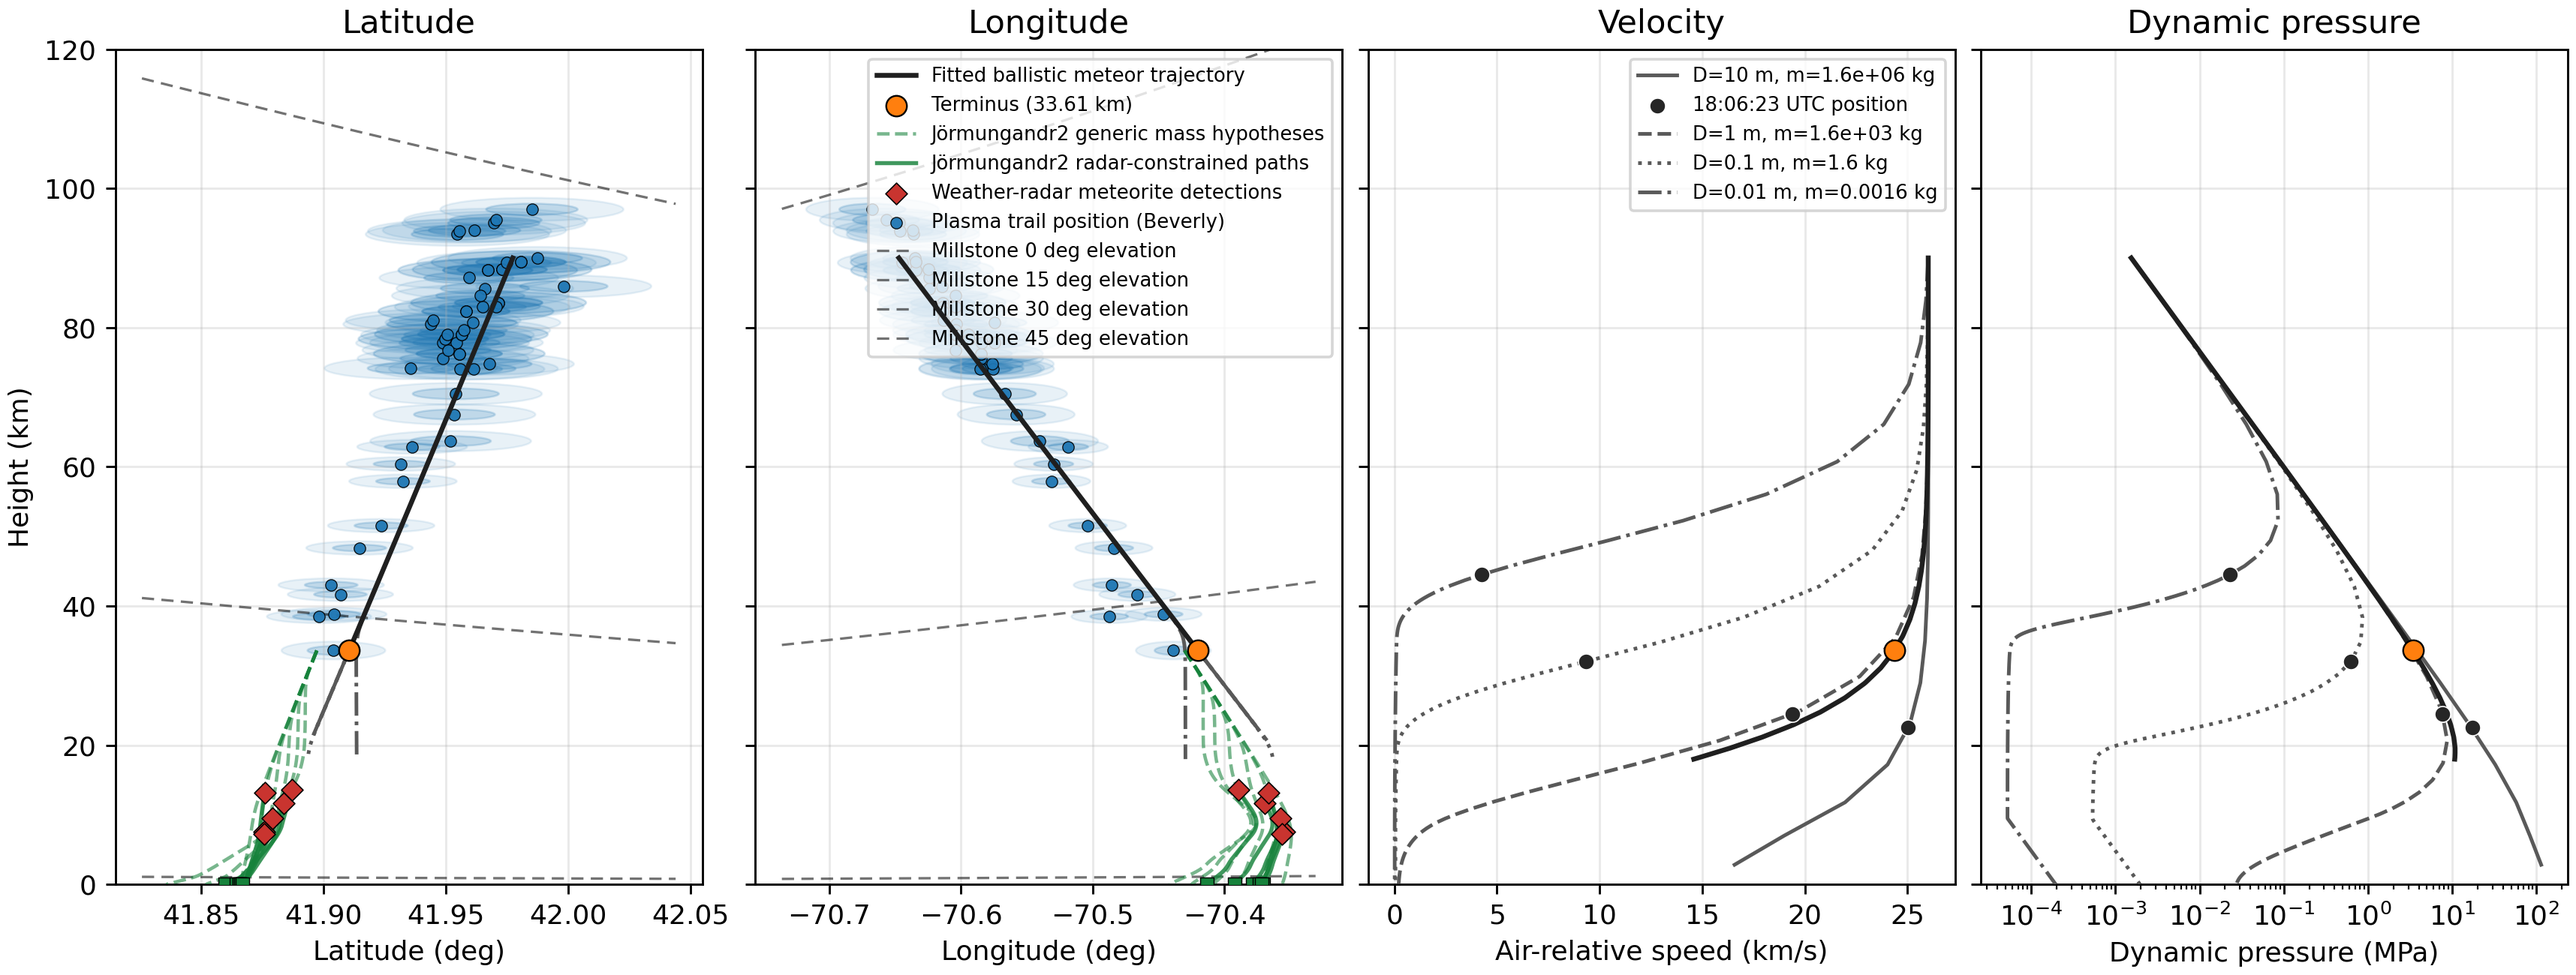
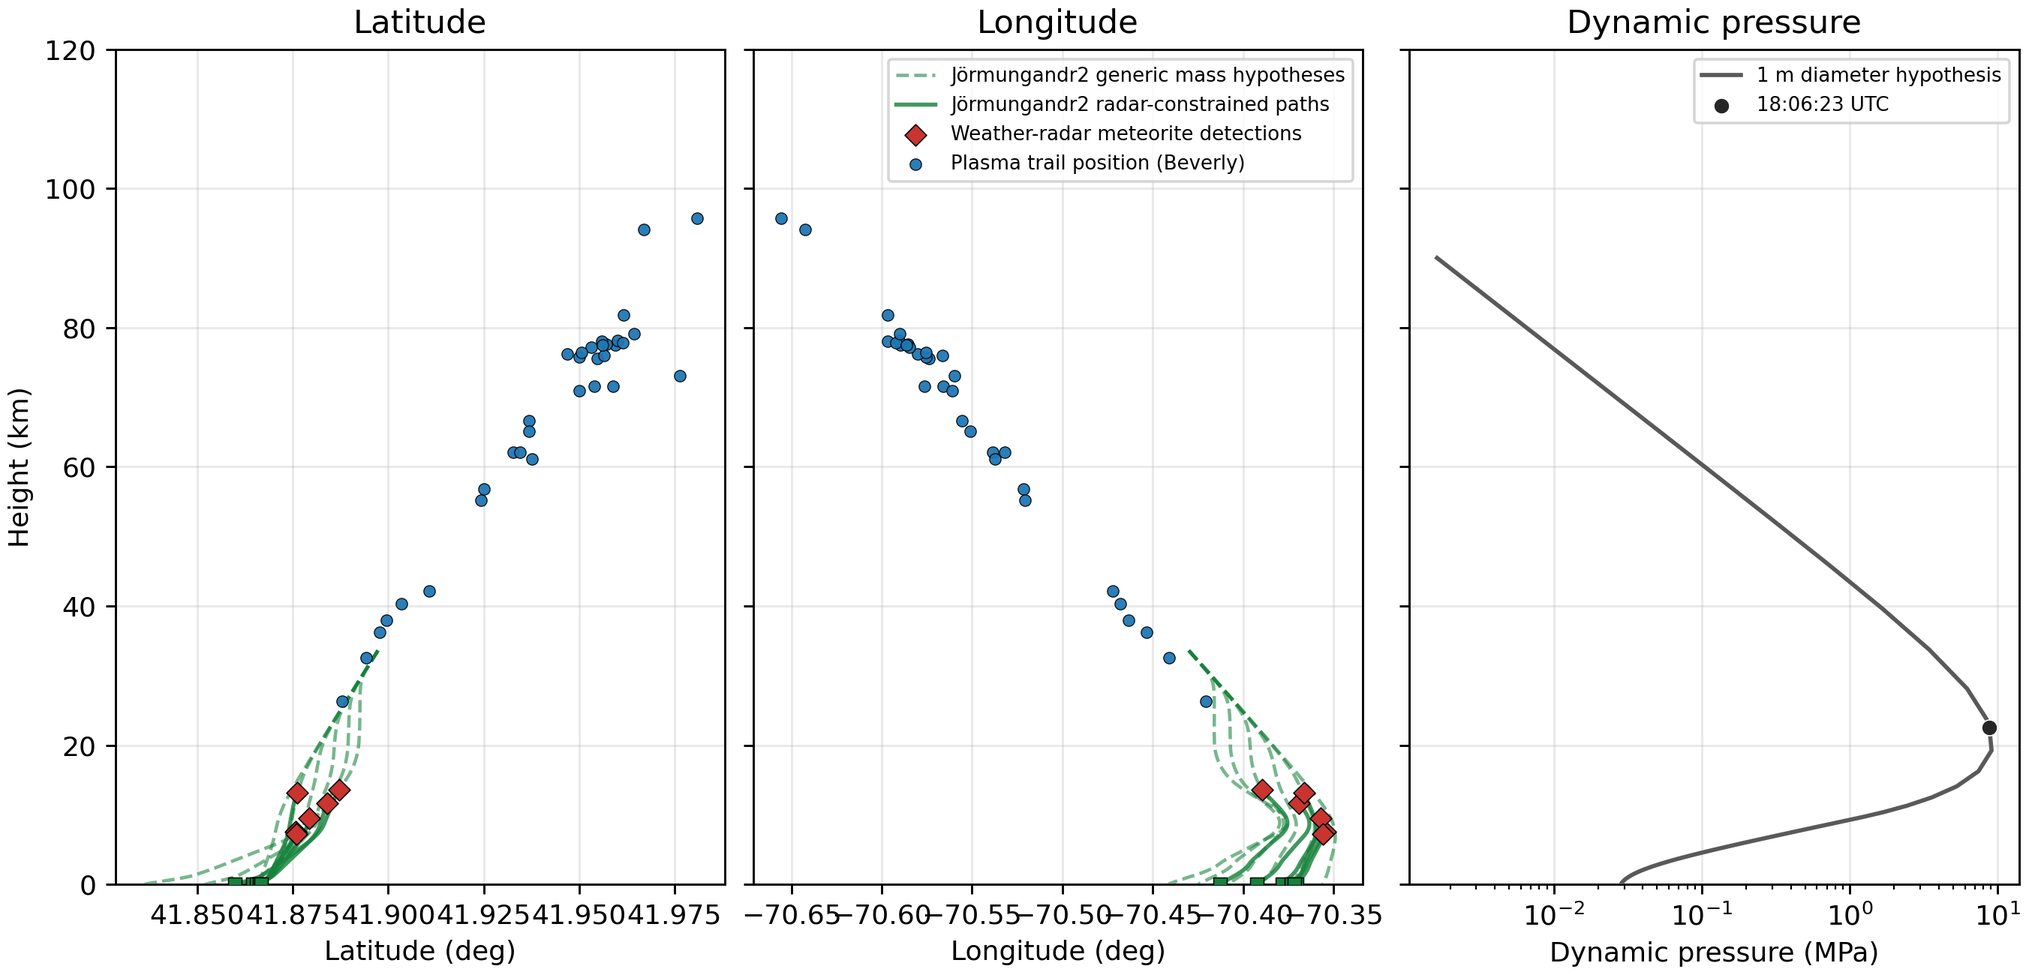
Simplify fragment hypothesis figure panels

diff --git a/reports/plot_fragment_size_hypotheses.py b/reports/plot_fragment_size_hypotheses.py
@@ -29,20 +29,51 @@ from angle_departure_estimator import enu_to_ecef_matrix, geodetic_to_ecef  # no
 from estimate_head_echo_trajectory import ecef_to_geodetic_wgs84  # noqa: E402
 from fit_ballistic_head_trail import atmosphere_velocity_gcrs, build_density_profile, density_at_alt, dynamics, propagate_state, sphere_cd_area_over_mass  # noqa: E402
 from fit_combined_head_trail_eci import gcrs_to_ecef  # noqa: E402
-from reports.image_sparse_spectral_components import fit_model_state_at_altitude, parse_utc, utc_string  # noqa: E402
-
-
 OUT_FIG = Path("reports/figures/fragment_size_hypotheses.png")
 OUT_SUMMARY = Path("reports/fragment_size_hypotheses_summary.json")
 DEFAULT_TRAJECTORY = Path("products/ballistic_head_trail_correlated_fit_v0p2p9_rinterp4_zp16_3incoh/ballistic_head_trail_correlated_fit.json")
-DEFAULT_TRAIL_POSITION_H5 = [
-    Path("reports/interactive_sparse_component_imager/beverly_trail_positions.h5"),
+DEFAULT_TRAIL_POSITION_JSON = [
+    Path("products/specular_trail_positions/specular_trail_position_summary.json"),
 ]
 DEFAULT_DARK_FLIGHT_KMZ = Path("data/marc_fries/cape_cod_bay_dark_flight_20260626.kmz")
 DEFAULT_DARK_FLIGHT_JSON = Path("data/marc_fries/cape_cod_bay_dark_flight_20260625.json")
 MILLSTONE_TX_LAT_DEG = 42.611
 MILLSTONE_TX_LON_DEG = -71.485
 MILLSTONE_TX_ALT_M = 80.0
+
+
+def parse_utc(value: str) -> float:
+    """Parse an ISO-8601 UTC timestamp into Unix seconds."""
+    return datetime.fromisoformat(value.replace("Z", "+00:00")).timestamp()
+
+
+def utc_string(time_unix: float) -> str:
+    """Format Unix seconds as an ISO-8601 UTC timestamp."""
+    return datetime.fromtimestamp(float(time_unix), tz=timezone.utc).isoformat(timespec="microseconds").replace("+00:00", "Z")
+
+
+def fit_model_state_at_altitude(fit: dict, altitude_km: float) -> tuple[float, np.ndarray, np.ndarray]:
+    """Interpolate the saved fitted-model state at a requested altitude."""
+    model = fit["model"]
+    altitude_m = np.asarray(model["alt_m"], dtype=float)
+    target_m = float(altitude_km) * 1000.0
+    if target_m < float(np.nanmin(altitude_m)) or target_m > float(np.nanmax(altitude_m)):
+        raise ValueError(
+            f"Requested altitude {altitude_km:g} km is outside fitted model range "
+            f"{np.nanmin(altitude_m) / 1000.0:.2f}--{np.nanmax(altitude_m) / 1000.0:.2f} km"
+        )
+    order = np.argsort(altitude_m)
+    altitude_sorted = altitude_m[order]
+    time_unix = float(np.interp(target_m, altitude_sorted, np.asarray(model["time_unix"], dtype=float)[order]))
+    position = np.asarray(
+        [np.interp(target_m, altitude_sorted, np.asarray(model["position_gcrs_m"], dtype=float)[order, axis]) for axis in range(3)],
+        dtype=float,
+    )
+    velocity = np.asarray(
+        [np.interp(target_m, altitude_sorted, np.asarray(model["velocity_gcrs_mps"], dtype=float)[order, axis]) for axis in range(3)],
+        dtype=float,
+    )
+    return time_unix, position, velocity
 
 
 def gcrs_path_to_llh(pos_gcrs: np.ndarray, time_unix: np.ndarray) -> np.ndarray:
@@ -203,6 +234,37 @@ def load_components_h5(paths: list[Path], max_height_km: float) -> list[dict]:
                         "blob_axis_length_cross_m": float(h["blob_axis_length_cross_m"][idx]) if "blob_axis_length_cross_m" in h else np.nan,
                     }
                 )
+    return rows
+
+
+def load_components_json(paths: list[Path], max_height_km: float, station: str = "beverly") -> list[dict]:
+    """Load tracked trail-plasma positions from the AoD solution JSON."""
+    rows = []
+    for path in paths:
+        if not path.exists():
+            raise FileNotFoundError(f"Trail-position JSON does not exist: {path}")
+        payload = json.loads(path.read_text(encoding="utf-8"))
+        for row in payload.get("positions", []):
+            alt_m = float(row.get("alt_m", np.nan))
+            alt_km = alt_m / 1000.0
+            if str(row.get("station", "")).lower() != station.lower():
+                continue
+            if not np.isfinite(alt_km) or alt_km < 0.0 or alt_km > max_height_km:
+                continue
+            # Reject the known AoD-alias solution far from the trajectory prior.
+            if float(row.get("aod_prior_offset_deg", 0.0)) > 10.0:
+                continue
+            rows.append(
+                {
+                    "station": str(row.get("station", "")),
+                    "lat_deg": float(row["lat_deg"]),
+                    "lon_deg": float(row["lon_deg"]),
+                    "alt_m": alt_m,
+                    "centroid_alt_sigma_m": np.nan,
+                    "blob_axis_length_along_m": np.nan,
+                    "blob_axis_length_cross_m": np.nan,
+                }
+            )
     return rows
 
 
@@ -457,74 +519,40 @@ def make_plot(
     marker_time_unix: float,
     terminus_marker: dict[str, float],
     trajectory_min_altitude_km: float,
-    fitted_trajectory: dict[str, np.ndarray],
     dark_flight_paths: list[dict],
     dark_flight_detections: list[dict],
 ) -> dict[str, float]:
-    fig, axes = plt.subplots(1, 4, figsize=(13.2, 5.0), sharey=True, constrained_layout=True)
-    ax_lat, ax_lon, ax_vel, ax_q = axes
+    fig, axes = plt.subplots(1, 3, figsize=(10.4, 5.0), sharey=True, constrained_layout=True)
+    ax_lat, ax_lon, ax_q = axes
     linestyles = ["-", "--", ":", "-.", (0, (3, 1, 1, 1, 1, 1))]
 
     marker_label_added = False
     for idx, path in enumerate(paths):
-        label = f"D={path['diameter_m']:g} m, m={path['mass_kg']:.2g} kg"
+        label = f"{path['diameter_m']:g} m diameter hypothesis"
         style = linestyles[idx % len(linestyles)]
-        mapped = np.asarray(path["alt_km"], dtype=float) >= float(trajectory_min_altitude_km)
-        ax_lat.plot(np.asarray(path["lat_deg"])[mapped], np.asarray(path["alt_km"])[mapped], color="0.35", lw=1.35, linestyle=style, zorder=4)
-        ax_lon.plot(np.asarray(path["lon_deg"])[mapped], np.asarray(path["alt_km"])[mapped], color="0.35", lw=1.35, linestyle=style, zorder=4)
         q = np.asarray(path["dynamic_pressure_mpa"], dtype=float)
         q_plot = np.where(q > 0.0, q, np.nan)
-        ax_vel.plot(path["air_relative_speed_km_s"], path["alt_km"], color="0.35", lw=1.35, linestyle=style, label=label, zorder=4)
-        ax_q.plot(q_plot, path["alt_km"], color="0.35", lw=1.35, linestyle=style, zorder=4)
-        marker = interp_path_at_time(path, marker_time_unix)
+        show_dynamic_pressure = np.isclose(float(path["diameter_m"]), 1.0)
+        if show_dynamic_pressure:
+            ax_q.plot(q_plot, path["alt_km"], color="0.35", lw=1.55, linestyle=style, label=label, zorder=4)
+        marker = interp_path_at_time(path, marker_time_unix) if show_dynamic_pressure else None
         if marker is not None:
             marker_label = None
             if not marker_label_added:
-                marker_label = "18:06:23 UTC position"
+                marker_label = "18:06:23 UTC"
                 marker_label_added = True
-            ax_vel.scatter(
-                [marker["air_relative_speed_km_s"]],
-                [marker["alt_km"]],
-                marker="o",
-                s=34,
-                color="0.15",
-                edgecolor="white",
-                linewidth=0.45,
-                label=marker_label,
-                zorder=7,
-            )
             if marker["dynamic_pressure_mpa"] > 0.0:
-                ax_q.scatter([marker["dynamic_pressure_mpa"]], [marker["alt_km"]], marker="o", s=34, color="0.15", edgecolor="white", linewidth=0.45, zorder=7)
-
-    above_terminus = fitted_trajectory["alt_km"] >= float(terminus_marker["alt_km"])
-    ax_lat.plot(fitted_trajectory["lat_deg"][above_terminus], fitted_trajectory["alt_km"][above_terminus], color="0.12", lw=1.8, zorder=6)
-    ax_lon.plot(
-        fitted_trajectory["lon_deg"][above_terminus],
-        fitted_trajectory["alt_km"][above_terminus],
-        color="0.12",
-        lw=1.8,
-        label="Fitted ballistic meteor trajectory",
-        zorder=6,
-    )
-    ax_vel.plot(fitted_trajectory["air_relative_speed_km_s"], fitted_trajectory["alt_km"], color="0.12", lw=1.8, zorder=6)
-    ax_q.plot(fitted_trajectory["dynamic_pressure_mpa"], fitted_trajectory["alt_km"], color="0.12", lw=1.8, zorder=6)
-
-    if terminus_marker:
-        terminus_alt_km = float(terminus_marker["alt_km"])
-        terminus_label = f"Terminus ({terminus_alt_km:.2f} km)"
-        marker_style = {
-            "marker": "o",
-            "s": 58,
-            "color": "C1",
-            "edgecolor": "black",
-            "linewidth": 0.65,
-            "zorder": 8,
-        }
-        ax_lat.scatter([terminus_marker["lat_deg"]], [terminus_alt_km], **marker_style)
-        ax_lon.scatter([terminus_marker["lon_deg"]], [terminus_alt_km], label=terminus_label, **marker_style)
-        ax_vel.scatter([terminus_marker["air_relative_speed_km_s"]], [terminus_alt_km], **marker_style)
-        if terminus_marker["dynamic_pressure_mpa"] > 0.0:
-            ax_q.scatter([terminus_marker["dynamic_pressure_mpa"]], [terminus_alt_km], **marker_style)
+                ax_q.scatter(
+                    [marker["dynamic_pressure_mpa"]],
+                    [marker["alt_km"]],
+                    marker="o",
+                    s=34,
+                    color="0.15",
+                    edgecolor="white",
+                    linewidth=0.45,
+                    label=marker_label,
+                    zorder=7,
+                )
 
     for idx, dark_path in enumerate(dark_flight_paths):
         generic = dark_path["path_kind"] == "generic_mass_hypothesis"
@@ -590,47 +618,29 @@ def make_plot(
             ax_lat.scatter(lat, alt, s=18, color=color, edgecolor="black", linewidth=0.35, alpha=0.95, zorder=5)
             ax_lon.scatter(lon, alt, s=18, color=color, edgecolor="black", linewidth=0.35, alpha=0.95, label=label, zorder=5)
 
-    ref_lat, ref_lon = component_reference_lonlat(paths, components)
-    elevation_levels_deg = [0.0, 15.0, 30.0, 45.0]
-    elevation_summary = {}
-    if np.isfinite(ref_lat) and np.isfinite(ref_lon):
-        lat_grid = np.linspace(*ax_lat.get_xlim(), 240)
-        lon_grid = np.linspace(*ax_lon.get_xlim(), 240)
-        for el in elevation_levels_deg:
-            lat_alt = np.array([elevation_altitude_km(lat, ref_lon, el) for lat in lat_grid], dtype=float)
-            lon_alt = np.array([elevation_altitude_km(ref_lat, lon, el) for lon in lon_grid], dtype=float)
-            lat_alt = np.where((lat_alt >= 0.0) & (lat_alt <= 120.0), lat_alt, np.nan)
-            lon_alt = np.where((lon_alt >= 0.0) & (lon_alt <= 120.0), lon_alt, np.nan)
-            label = f"Millstone {el:g} deg elevation"
-            ax_lat.plot(lat_grid, lat_alt, color="0.05", lw=0.9, ls=(0, (5, 3)), alpha=0.58, zorder=3)
-            ax_lon.plot(lon_grid, lon_alt, color="0.05", lw=0.9, ls=(0, (5, 3)), alpha=0.58, label=label, zorder=3)
-            elevation_summary[f"{el:g}"] = elevation_altitude_km(ref_lat, ref_lon, el)
-
     ax_lat.set_xlabel("Latitude (deg)")
     ax_lon.set_xlabel("Longitude (deg)")
-    ax_vel.set_xlabel("Air-relative speed (km/s)")
     ax_q.set_xlabel("Dynamic pressure (MPa)")
     ax_lat.set_ylabel("Height (km)")
     ax_lat.set_title("Latitude")
     ax_lon.set_title("Longitude")
-    ax_vel.set_title("Velocity")
     ax_q.set_title("Dynamic pressure")
     for ax in axes:
         ax.grid(True, alpha=0.28)
         ax.set_ylim(0, 120)
     ax_q.set_xscale("log")
     ax_lon.legend(loc="upper right", fontsize=7.2)
-    ax_vel.legend(loc="best", fontsize=7.2)
+    ax_q.legend(loc="best", fontsize=7.2)
     out.parent.mkdir(parents=True, exist_ok=True)
-    fig.savefig(out, dpi=260)
+    fig.savefig(out, dpi=260, facecolor="white", transparent=False)
     plt.close(fig)
-    return elevation_summary
+    return {}
 
 
 def main() -> None:
     p = argparse.ArgumentParser(description=__doc__)
     p.add_argument("--trajectory", type=Path, default=DEFAULT_TRAJECTORY)
-    p.add_argument("--trail-positions-h5", nargs="+", type=Path, default=DEFAULT_TRAIL_POSITION_H5)
+    p.add_argument("--trail-positions-json", nargs="+", type=Path, default=DEFAULT_TRAIL_POSITION_JSON)
     p.add_argument("--marker-time", default="2026-05-30T18:06:23Z")
     p.add_argument("--terminus-altitude-km", type=float, default=33.61)
     p.add_argument("--right-panel-min-altitude-km", type=float, default=18.0)
@@ -639,7 +649,7 @@ def main() -> None:
     p.add_argument("--max-duration-s", type=float, default=7200.0)
     p.add_argument("--launch-altitude-km", type=float, default=90.0)
     p.add_argument("--density-kg-m3", type=float, default=3000.0)
-    p.add_argument("--diameters-m", nargs="+", type=float, default=[10.0, 1.0, 0.1, 0.01])
+    p.add_argument("--diameters-m", nargs="+", type=float, default=[1.0])
     p.add_argument("--cd", type=float, default=1.0)
     p.add_argument("--dt-s", type=float, default=0.25)
     p.add_argument("--max-step-s", type=float, default=10.0)
@@ -659,12 +669,10 @@ def main() -> None:
         float(args.dt_s),
         float(args.max_step_s),
     )
-    ensure_gui_trail_position_h5([Path(v) for v in args.trail_positions_h5])
-    components = load_components_h5([Path(v) for v in args.trail_positions_h5], max_height_km=120.0)
+    components = load_components_json([Path(v) for v in args.trail_positions_json], max_height_km=120.0)
     dark_flight_paths = load_dark_flight_kmz(args.dark_flight_kmz)
     dark_flight_detections = load_dark_flight_radar_detections(args.dark_flight_json)
     terminus_marker = terminus_marker_summary(fit, float(args.terminus_altitude_km))
-    fitted_trajectory = build_fitted_trajectory(fit, float(args.launch_altitude_km), float(args.right_panel_min_altitude_km))
     elevation_summary = make_plot(
         args.out,
         paths,
@@ -673,7 +681,6 @@ def main() -> None:
         marker_time,
         terminus_marker,
         float(args.right_panel_min_altitude_km),
-        fitted_trajectory,
         dark_flight_paths,
         dark_flight_detections,
     )
@@ -682,7 +689,7 @@ def main() -> None:
     payload = {
         "source_program": "reports/plot_fragment_size_hypotheses.py",
         "trajectory": str(args.trajectory),
-        "trail_positions_h5": [str(v) for v in args.trail_positions_h5],
+        "trail_positions_json": [str(v) for v in args.trail_positions_json],
         "figure": str(args.out),
         "launch": launch,
         "marker_time_unix": float(marker_time),
